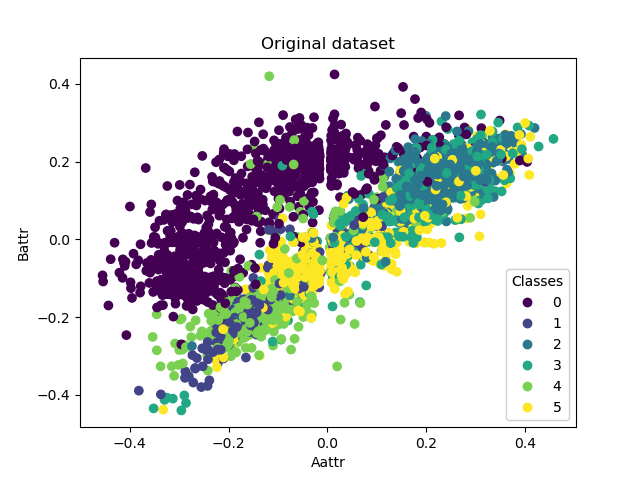
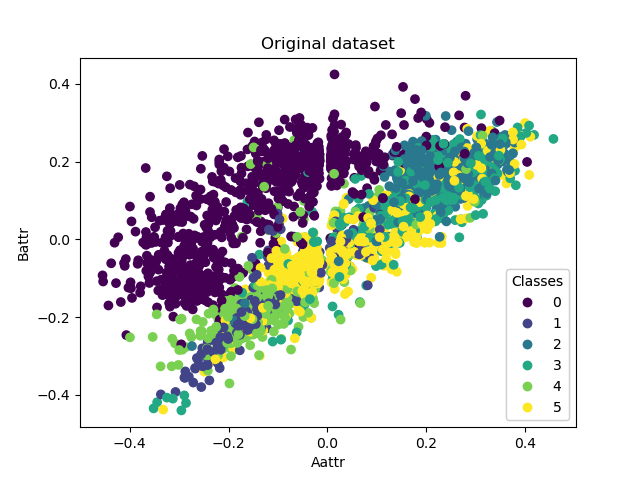
fix ICF algorithm

diff --git a/InstanceReduction/Reduction/ICF.py b/InstanceReduction/Reduction/ICF.py
@@ -1,4 +1,5 @@
 from ._Reduction import _Reduction
+from .ENN import ENN
 from ..DataPreparation import DataPreparation
 from ._NNGraph import _NNGraph
 import numpy as np
@@ -31,8 +32,6 @@ class ICF(_Reduction):
         elif k >= len(self.data.data_all_train):
             raise ValueError('k atribute must have value less than number of instances in dataset')
 
-        self.graph = _NNGraph()
-        self.graph.create_graph(self.data.data_all_train, self.data.data_label_train)
 
     def create_cov_reach(self, index:int)-> list:
         """Function creating coverage subset. Coverage subset contains nearest neighbours with same label, limited by first enemy.
@@ -58,16 +57,22 @@ class ICF(_Reduction):
                 self.reachable[idx].append(index)
 
 
-    def create_reachable():
-        pass
-
     def reduce_instances(self, return_time = False):
         print('Reducing the dataset using the ICF algorithm...')
-        self.red_data = self.data.data_all_train
-        self.red_lab = self.data.data_label_train
+
+        #apply ENN algorith first
+        enn = ENN(self.data)
+        enn.reduce_instances()
+        #init reduced data and labels
+        self.red_data = enn.red_data
+        self.red_lab = enn.red_lab
 
         #start time measurement
         start = process_time()
+
+        #create graph for get information about neighbours and enemies
+        self.graph = _NNGraph()
+        self.graph.create_graph(self.red_data, self.red_lab)
         
         #do algorithm
         progress = True
@@ -89,6 +94,8 @@ class ICF(_Reduction):
             #init arrays for keeping instances
             keep = np.ones((self.red_lab.shape))
             
+            #recreate graph
+            self.graph.create_graph(self.red_data, self.red_lab)
             #init coverage and reachable subset
             self.coverage = []
             self.reachable = []

diff --git a/example.py b/example.py
@@ -5,12 +5,12 @@ from InstanceReduction.Reduction.PCS import PCS
 from InstanceReduction.Reduction.MSS import MSS
 from InstanceReduction.Reduction.ICF import ICF
 
-data = DataPreparation('iris')#filepath="D:\Studia\inz\datasets_csv\glass.csv", class_col='Type')#'iris')
-enn = PCS(data)
+data = DataPreparation('satimage')#filepath="D:\Studia\inz\datasets_csv\glass.csv", class_col='Type')#'iris')
+enn = ICF(data)
 print(enn.reduce_instances(return_time=True))
 
 from InstanceReduction.Raport import Raport
 
 rap = Raport(data, enn.red_data, enn.red_lab)
-rap.draw_plots('sepallength','sepalwidth', show = True, save = True) #,'Aattr', 'Battr'
+rap.draw_plots('Aattr', 'Battr', show = True, save = True) #,'sepallength','sepalwidth' 'Aattr', 'Battr' 'width', 'high'
 rap.print_raport(show_cf_matrix = False, save_cf_matrix= True) #c_type = 'all',show_cf_matrix = True, path ='', save_plots = False)
